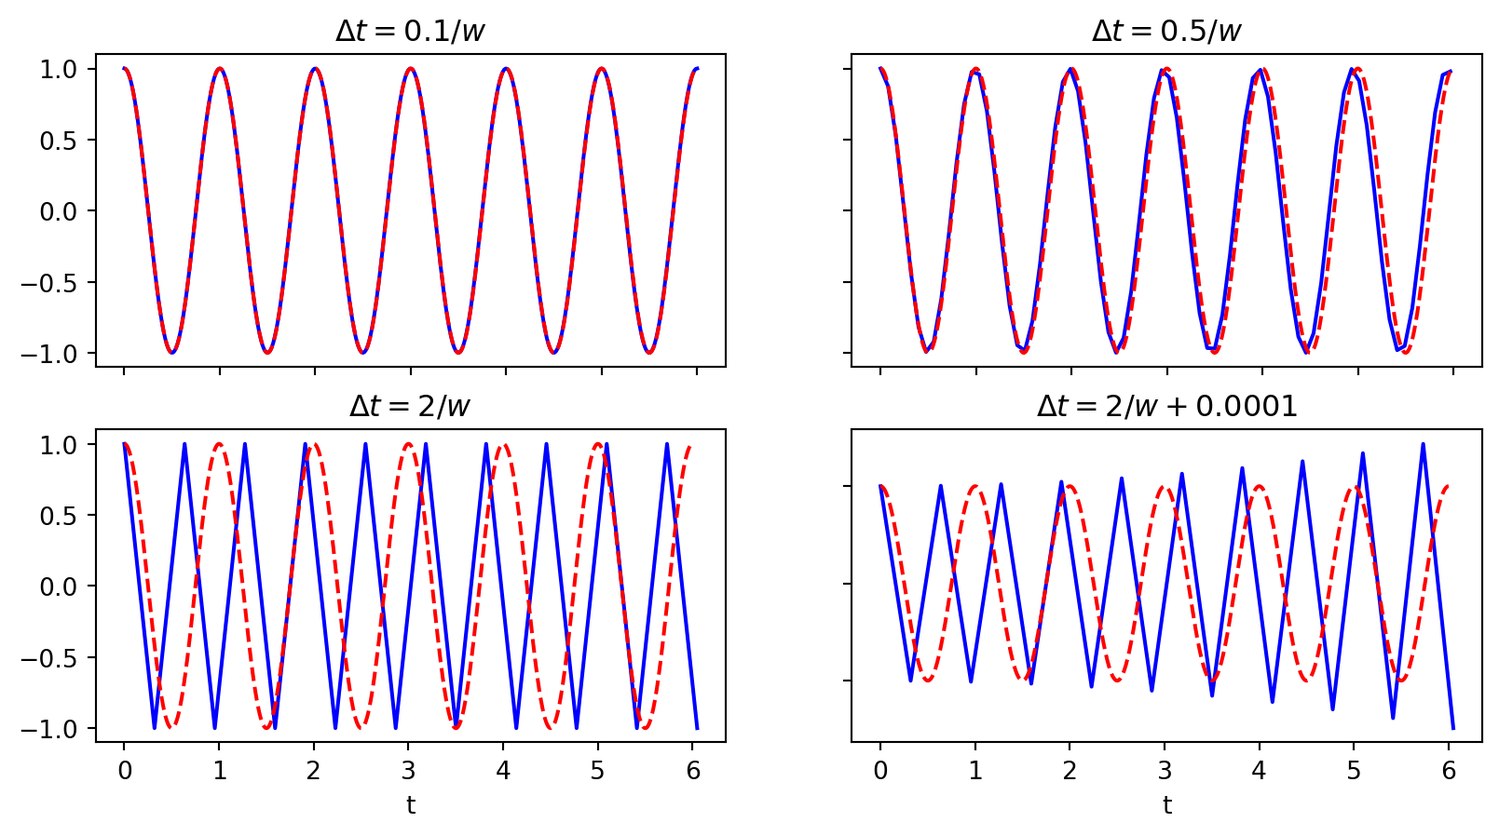
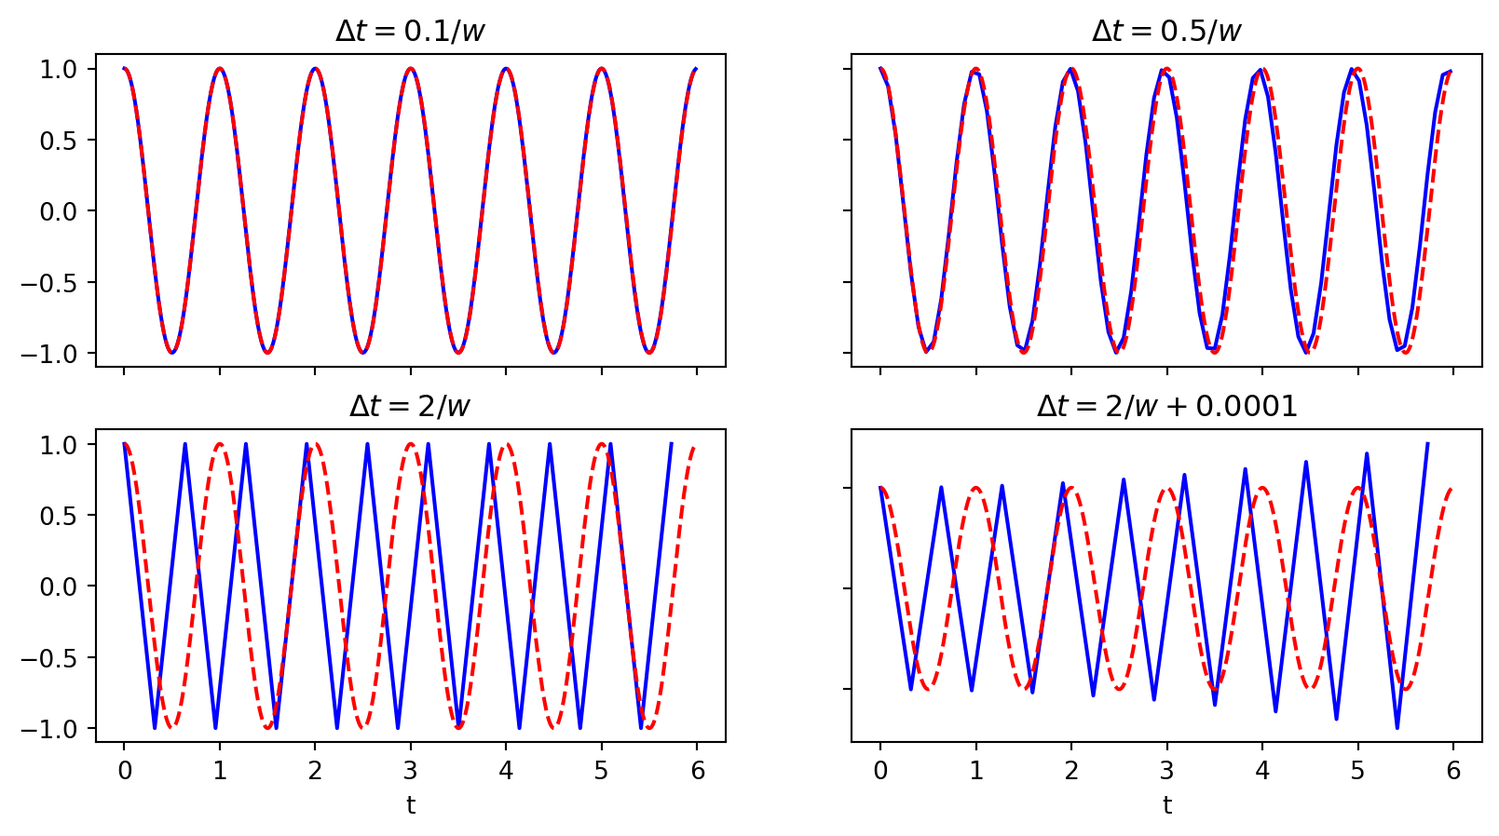
Update documentation

diff --git a/vibration.html b/vibration.html
@@ -339,7 +339,7 @@ u^1 = u^0 - \frac{1}{2} \Delta t^2 \omega^2 u^0
 </ul>
 <div class="fragment">
 <p>More precisely expressed in Python:</p>
-<div id="2c00d744" class="cell" data-execution_count="2">
+<div id="3a47ffdb" class="cell" data-execution_count="2">
 <div class="sourceCode cell-code" id="cb1"><pre class="sourceCode numberSource python number-lines code-with-copy"><code class="sourceCode python"><span id="cb1-1"><a></a>T <span class="op">=</span> <span class="dv">2</span></span>
 <span id="cb1-2"><a></a>Nt <span class="op">=</span> <span class="dv">20</span></span>
 <span id="cb1-3"><a></a>I <span class="op">=</span> <span class="dv">1</span></span>
@@ -358,7 +358,7 @@ u^1 = u^0 - \frac{1}{2} \Delta t^2 \omega^2 u^0
 </section>
 <section id="plot-of-solution" class="slide level2">
 <h2>Plot of solution</h2>
-<div id="bfeb33d1" class="cell" data-execution_count="3">
+<div id="473dc9f2" class="cell" data-execution_count="3">
 <div class="sourceCode cell-code" id="cb2"><pre class="sourceCode numberSource python number-lines code-with-copy"><code class="sourceCode python"><span id="cb2-1"><a></a><span class="im">import</span> matplotlib.pyplot <span class="im">as</span> plt</span>
 <span id="cb2-2"><a></a></span>
 <span id="cb2-3"><a></a>plt.plot(t, u, <span class="st">'*-'</span>)</span>
@@ -394,7 +394,7 @@ u^{\prime}(t_n) \approx \frac{u^{n+1}-u^{n-1}}{2\Delta t}
 </div>
 <div class="fragment">
 <p>With vectorization:</p>
-<div id="f9bf70d9" class="cell" data-execution_count="4">
+<div id="8a4bd528" class="cell" data-execution_count="4">
 <div class="sourceCode cell-code" id="cb3"><pre class="sourceCode numberSource python number-lines code-with-copy"><code class="sourceCode python"><span id="cb3-1"><a></a>du <span class="op">=</span> np.zeros(Nt<span class="op">+</span><span class="dv">1</span>)</span>
 <span id="cb3-2"><a></a>du[<span class="dv">1</span>:<span class="op">-</span><span class="dv">1</span>] <span class="op">=</span> (u[<span class="dv">2</span>:] <span class="op">-</span> u[:<span class="op">-</span><span class="dv">2</span>]) <span class="op">/</span> (<span class="dv">2</span><span class="op">*</span>dt)  <span class="co"># second order accurate</span></span>
 <span id="cb3-3"><a></a>du[<span class="dv">0</span>] <span class="op">=</span> <span class="dv">0</span>                             <span class="co"># exact from initial condition</span></span>
@@ -404,13 +404,13 @@ u^{\prime}(t_n) \approx \frac{u^{n+1}-u^{n-1}}{2\Delta t}
 </section>
 <section id="implementation" class="slide level2 smaller">
 <h2>Implementation</h2>
-<div id="e6427717" class="cell" data-execution_count="5">
+<div id="26703f8d" class="cell" data-execution_count="5">
 <div class="sourceCode cell-code" id="cb4"><pre class="sourceCode numberSource python number-lines code-with-copy"><code class="sourceCode python"><span id="cb4-1"><a></a><span class="kw">def</span> solver(I, w, dt, T):</span>
 <span id="cb4-2"><a></a>    <span class="co">"""</span></span>
 <span id="cb4-3"><a></a><span class="co">    Solve u'' + w**2*u = 0 for t in (0,T], u(0)=I and u'(0)=0,</span></span>
 <span id="cb4-4"><a></a><span class="co">    by a central finite difference method with time step dt.</span></span>
 <span id="cb4-5"><a></a><span class="co">    """</span></span>
-<span id="cb4-6"><a></a>    Nt <span class="op">=</span> <span class="bu">int</span>(<span class="bu">round</span>(T<span class="op">/</span>dt))</span>
+<span id="cb4-6"><a></a>    Nt <span class="op">=</span> <span class="bu">int</span>(T<span class="op">/</span>dt)</span>
 <span id="cb4-7"><a></a>    u <span class="op">=</span> np.zeros(Nt<span class="op">+</span><span class="dv">1</span>)</span>
 <span id="cb4-8"><a></a>    t <span class="op">=</span> np.linspace(<span class="dv">0</span>, Nt<span class="op">*</span>dt, Nt<span class="op">+</span><span class="dv">1</span>)</span>
 <span id="cb4-9"><a></a></span>
@@ -426,7 +426,7 @@ u^{\prime}(t_n) \approx \frac{u^{n+1}-u^{n-1}}{2\Delta t}
 </section>
 <section id="visualization" class="slide level2 smaller">
 <h2>Visualization</h2>
-<div id="54ff9793" class="cell" data-execution_count="6">
+<div id="ab72806b" class="cell" data-execution_count="6">
 <div class="sourceCode cell-code" id="cb5"><pre class="sourceCode numberSource python number-lines code-with-copy"><code class="sourceCode python"><span id="cb5-1"><a></a><span class="kw">def</span> visualize(u, t, I, w):</span>
 <span id="cb5-2"><a></a>    plt.plot(t, u, <span class="st">'b-o'</span>)</span>
 <span id="cb5-3"><a></a>    t_fine <span class="op">=</span> np.linspace(<span class="dv">0</span>, t[<span class="op">-</span><span class="dv">1</span>], <span class="dv">1001</span>)  <span class="co"># very fine mesh for u_e</span></span>
@@ -443,7 +443,7 @@ u^{\prime}(t_n) \approx \frac{u^{n+1}-u^{n-1}}{2\Delta t}
 </section>
 <section id="main-program" class="slide level2 smaller">
 <h2>Main program</h2>
-<div id="6582aab9" class="cell" data-execution_count="7">
+<div id="e8a98965" class="cell" data-execution_count="7">
 <div class="sourceCode cell-code" id="cb6"><pre class="sourceCode numberSource python number-lines code-with-copy"><code class="sourceCode python"><span id="cb6-1"><a></a>I <span class="op">=</span> <span class="dv">1</span></span>
 <span id="cb6-2"><a></a>w <span class="op">=</span> <span class="dv">2</span><span class="op">*</span>np.pi</span>
 <span id="cb6-3"><a></a>num_periods <span class="op">=</span> <span class="dv">6</span></span>
@@ -463,7 +463,7 @@ u^{\prime}(t_n) \approx \frac{u^{n+1}-u^{n-1}}{2\Delta t}
 </section>
 <section id="various-timestep" class="slide level2 smaller">
 <h2>Various timestep</h2>
-<div id="2d125f4c" class="cell" data-execution_count="8">
+<div id="06c10d4e" class="cell" data-execution_count="8">
 <div class="cell-output cell-output-display">
 <div>
 <figure>
@@ -488,7 +488,7 @@ u^{n+1} = A u^n  \quad \text{or} \quad u^n = A^n I
 <p>where <span class="math inline">\(I\)</span> is an initial condition.</p>
 <div class="fragment">
 <p>So the <strong>recurrence relation</strong> (the difference equation) have solutions <span class="math inline">\(u^n\)</span> that may be computed <strong>recursively</strong></p>
-<div id="d49e182c" class="cell" data-execution_count="9">
+<div id="619d8a14" class="cell" data-execution_count="9">
 <div class="sourceCode cell-code" id="cb7"><pre class="sourceCode numberSource python number-lines code-with-copy"><code class="sourceCode python"><span id="cb7-1"><a></a><span class="kw">def</span> u(n, I<span class="op">=</span><span class="fl">2.</span>, A<span class="op">=</span><span class="fl">0.5</span>):</span>
 <span id="cb7-2"><a></a>  <span class="cf">if</span> n <span class="op">&gt;</span> <span class="dv">0</span>:</span>
 <span id="cb7-3"><a></a>    <span class="cf">return</span> A <span class="op">*</span> u(n<span class="op">-</span><span class="dv">1</span>, I, A)</span>
@@ -502,7 +502,7 @@ u^{n+1} = A u^n  \quad \text{or} \quad u^n = A^n I
 </section>
 <section id="exact-discrete-solution" class="slide level2 smaller">
 <h2>Exact discrete solution</h2>
-<p>We now have (at least) two possibilities</p>
+<p>We now have (at least) two possibilities for <span class="math inline">\(u^{n+1}=A u^n\)</span></p>
 <ol type="1">
 <li>Assume that <span class="math inline">\(A=e^{i \tilde{\omega} \Delta t}\)</span> and solve for the numerical frequency <span class="math inline">\(\tilde{\omega}\)</span></li>
 <li>Assume nothing and compute with a function A(<span class="math inline">\(\Delta t, \omega\)</span>) (like for the exponential decay)</li>
@@ -527,7 +527,7 @@ u(t_n) = I \cos (\tilde{\omega} t_n)
 \frac{u^{n+1} - 2u^n + u^{n-1}}{\Delta t^2} + \omega^2 u^n = 0
 \]</span></p>
 <div class="fragment">
-<p>Quite messy, but Wolfram Alpha (or another long derivation in the FD for PDEs book) will give you</p>
+<p>Quite messy, but Wolfram Alpha (or another long derivation in the FD for PDEs book) will give you for the first FD term</p>
 <p><span class="math display">\[
 \begin{align}
 \frac{u^{n+1} - 2u^n + u^{n-1}}{\Delta t^2} &amp;= \frac{I}{\Delta t^2} (\cos (\tilde{\omega} t_{n+1}) - 2 \cos (\tilde{\omega} t_n) + \cos (\tilde{\omega} t_{n-1})) \\
@@ -569,12 +569,12 @@ u(t_n) = I \cos (\tilde{\omega} t_n)
 <p>How good is the approximation <span class="math inline">\(\tilde{\omega} = \pm \frac{2}{\Delta t} \sin^{-1} \left( \frac{\omega  \Delta t }{2} \right)\)</span> ?</p>
 <div class="fragment">
 <p>We can easily use a Taylor series expansion for small <span class="math inline">\(h=\Delta t\)</span></p>
-<div id="c89df106" class="cell" data-execution_count="10">
+<div id="58e24574" class="cell" data-execution_count="10">
 <div class="sourceCode cell-code" id="cb9"><pre class="sourceCode numberSource python number-lines code-with-copy"><code class="sourceCode python"><span id="cb9-1"><a></a><span class="im">import</span> sympy <span class="im">as</span> sp </span>
 <span id="cb9-2"><a></a>h, w <span class="op">=</span> sp.symbols(<span class="st">'h,w'</span>)</span>
 <span id="cb9-3"><a></a>w_tilde <span class="op">=</span> sp.asin(w<span class="op">*</span>h<span class="op">/</span><span class="dv">2</span>).series(h, <span class="dv">0</span>, <span class="dv">4</span>)<span class="op">*</span><span class="dv">2</span><span class="op">/</span>h</span>
 <span id="cb9-4"><a></a>sp.simplify(w_tilde)</span></code><button title="Copy to Clipboard" class="code-copy-button"><i class="bi"></i></button></pre></div>
-<div class="cell-output cell-output-display cell-output-markdown" data-execution_count="10">
+<div class="cell-output cell-output-display cell-output-markdown" data-execution_count="37">
 <p><span class="math inline">\(\displaystyle w + \frac{h^{2} w^{3}}{24} + O\left(h^{3}\right)\)</span></p>
 </div>
 </div>
@@ -658,9 +658,9 @@ e^n = -2I\sin\left(n \Delta t\frac{1}{2}\left( \omega - \tilde\omega\right)\righ
 \]</span></p>
 <div class="fragment">
 <p>The limit can be computed using L’Hopital’s rule or simply by asking <code>sympy</code> or <a href="http://www.wolframalpha.com/input/?i=%282%2Fx%29*asin%28w*x%2F2%29+as+x-%3E0">WolframAlpha</a>. Sympy is easier:</p>
-<div id="2ef063a2" class="cell" data-execution_count="11">
+<div id="252f72a1" class="cell" data-execution_count="11">
 <div class="sourceCode cell-code" id="cb10"><pre class="sourceCode numberSource python number-lines code-with-copy"><code class="sourceCode python"><span id="cb10-1"><a></a>sp.limit((<span class="dv">2</span><span class="op">/</span>h)<span class="op">*</span>sp.asin(w<span class="op">*</span>h<span class="op">/</span><span class="dv">2</span>), h, <span class="dv">0</span>, <span class="bu">dir</span><span class="op">=</span><span class="st">'+'</span>)</span></code><button title="Copy to Clipboard" class="code-copy-button"><i class="bi"></i></button></pre></div>
-<div class="cell-output cell-output-display cell-output-markdown" data-execution_count="11">
+<div class="cell-output cell-output-display cell-output-markdown" data-execution_count="38">
 <p><span class="math inline">\(\displaystyle w\)</span></p>
 </div>
 </div>
@@ -689,10 +689,10 @@ e^n = -2I\sin\left(n \Delta t\frac{1}{2}\left( \omega - \tilde\omega\right)\righ
 <div class="column">
 <p>No! For <span class="math inline">\(\Im(y) &lt; 0\)</span> we have that <span class="math inline">\(|e^{iy}| &gt; 1\)</span>.</p>
 </div><div class="column">
-<div id="25aee783" class="cell" data-execution_count="12">
+<div id="6e69b708" class="cell" data-execution_count="12">
 <div class="sourceCode cell-code" id="cb11"><pre class="sourceCode numberSource python number-lines code-with-copy"><code class="sourceCode python"><span id="cb11-1"><a></a>y <span class="op">=</span> <span class="op">-</span><span class="ot">0.001j</span></span>
 <span id="cb11-2"><a></a><span class="bu">abs</span>(sp.exp(<span class="ot">1j</span><span class="op">*</span>y)) </span></code><button title="Copy to Clipboard" class="code-copy-button"><i class="bi"></i></button></pre></div>
-<div class="cell-output cell-output-display cell-output-markdown" data-execution_count="12">
+<div class="cell-output cell-output-display cell-output-markdown" data-execution_count="39">
 <p><span class="math inline">\(\displaystyle 1.00100050016671\)</span></p>
 </div>
 </div>
@@ -703,9 +703,9 @@ e^n = -2I\sin\left(n \Delta t\frac{1}{2}\left( \omega - \tilde\omega\right)\righ
 </div>
 <div class="fragment">
 <p>Yes! We can easily check that if <span class="math inline">\(|x|&gt;1\)</span> then <span class="math inline">\(\sin^{-1}(x)\)</span> has a negative imaginary part:</p>
-<div id="ec7be227" class="cell" data-execution_count="13">
+<div id="b9372a3e" class="cell" data-execution_count="13">
 <div class="sourceCode cell-code" id="cb12"><pre class="sourceCode numberSource python number-lines code-with-copy"><code class="sourceCode python"><span id="cb12-1"><a></a>sp.asin(<span class="fl">1.01</span>)</span></code><button title="Copy to Clipboard" class="code-copy-button"><i class="bi"></i></button></pre></div>
-<div class="cell-output cell-output-display cell-output-markdown" data-execution_count="13">
+<div class="cell-output cell-output-display cell-output-markdown" data-execution_count="40">
 <p><span class="math inline">\(\displaystyle 1.5707963267949 - 0.141303769485649 i\)</span></p>
 </div>
 </div>
@@ -731,7 +731,7 @@ e^n = -2I\sin\left(n \Delta t\frac{1}{2}\left( \omega - \tilde\omega\right)\righ
 </section>
 <section id="remember-the-initial-plots" class="slide level2 smaller">
 <h2>Remember the initial plots</h2>
-<div id="85ba37d5" class="cell" data-execution_count="14">
+<div id="8203bc3b" class="cell" data-execution_count="14">
 <div class="cell-output cell-output-display">
 <div>
 <figure>
@@ -744,7 +744,7 @@ e^n = -2I\sin\left(n \Delta t\frac{1}{2}\left( \omega - \tilde\omega\right)\righ
 </section>
 <section id="about-the-stability-limit" class="slide level2 smaller">
 <h2>About the stability limit</h2>
-<div id="c18d4672" class="cell" data-execution_count="15">
+<div id="abc0b721" class="cell" data-execution_count="15">
 <div class="cell-output cell-output-display">
 <div>
 <figure>
@@ -790,11 +790,11 @@ A = 1 - \frac{p^2}{2} \pm \frac{p}{2}\sqrt{p^2-4}
 A &lt; -1
 \]</span></p>
 <p>Check:</p>
-<div id="6ac3ea2e" class="cell" data-execution_count="16">
+<div id="0e98edba" class="cell" data-execution_count="16">
 <div class="sourceCode cell-code" id="cb13"><pre class="sourceCode numberSource python number-lines code-with-copy"><code class="sourceCode python"><span id="cb13-1"><a></a>p <span class="op">=</span> sp.Symbol(<span class="st">'p'</span>) </span>
 <span id="cb13-2"><a></a>f <span class="op">=</span> <span class="dv">1</span> <span class="op">-</span> p<span class="op">**</span><span class="dv">2</span><span class="op">/</span><span class="dv">2</span> <span class="op">-</span> p<span class="op">/</span><span class="dv">2</span><span class="op">*</span>sp.sqrt(p<span class="op">**</span><span class="dv">2</span><span class="op">-</span><span class="dv">4</span>)</span>
 <span id="cb13-3"><a></a>f.subs(p, <span class="fl">2.01</span>).n() </span></code><button title="Copy to Clipboard" class="code-copy-button"><i class="bi"></i></button></pre></div>
-<div class="cell-output cell-output-display cell-output-markdown" data-execution_count="16">
+<div class="cell-output cell-output-display cell-output-markdown" data-execution_count="43">
 <p><span class="math inline">\(\displaystyle -1.22130109316473\)</span></p>
 </div>
 </div>
@@ -860,7 +860,7 @@ A &lt; -1
 <section id="convergence-rates" class="slide level2 smaller">
 <h2>Convergence rates</h2>
 <p>Lets compute the convergence rate for our solver. However, let it also be possible to choose the numerical frequency <span class="math inline">\(\omega(1-\omega^2\Delta t^2/24)\)</span></p>
-<div id="5bc55708" class="cell" data-execution_count="17">
+<div id="f54e2048" class="cell" data-execution_count="17">
 <div class="sourceCode cell-code" id="cb14"><pre class="sourceCode numberSource python number-lines code-with-copy"><code class="sourceCode python"><span id="cb14-1"><a></a><span class="kw">def</span> solver_adjust(I, w, dt, T, adjust_w<span class="op">=</span><span class="va">False</span>):</span>
 <span id="cb14-2"><a></a>    Nt <span class="op">=</span> <span class="bu">int</span>(<span class="bu">round</span>(T<span class="op">/</span>dt))</span>
 <span id="cb14-3"><a></a>    u <span class="op">=</span> np.zeros(Nt<span class="op">+</span><span class="dv">1</span>)</span>
@@ -887,7 +887,7 @@ A &lt; -1
 <p><span class="math display">\[
 r = \frac{\log {\frac{E_{i-1}}{E_i}}}{\log {\frac{\Delta t_{i-1}}{\Delta t_i}}}
 \]</span></p>
-<div id="42b0cd42" class="cell" data-execution_count="18">
+<div id="94dd0b80" class="cell" data-execution_count="18">
 <div class="sourceCode cell-code" id="cb15"><pre class="sourceCode numberSource python number-lines code-with-copy"><code class="sourceCode python"><span id="cb15-1"><a></a><span class="kw">def</span> convergence_rates(m, num_periods<span class="op">=</span><span class="dv">8</span>, w<span class="op">=</span><span class="fl">0.35</span>, I<span class="op">=</span><span class="fl">0.3</span>, adjust_w<span class="op">=</span><span class="va">False</span>):</span>
 <span id="cb15-2"><a></a>    P <span class="op">=</span> <span class="dv">2</span><span class="op">*</span>np.pi<span class="op">/</span>w</span>
 <span id="cb15-3"><a></a>    dt <span class="op">=</span> <span class="dv">1</span> <span class="op">/</span> w    <span class="co"># Half stability limit</span></span>
@@ -908,9 +908,9 @@ r = \frac{\log {\frac{E_{i-1}}{E_i}}}{\log {\frac{\Delta t_{i-1}}{\Delta t_i}}}
 <section id="try-it" class="slide level2 smaller">
 <h2>Try it!</h2>
 <p>Print the computed convergence rates</p>
-<div id="d0c5eb35" class="cell" data-execution_count="19">
+<div id="051b82fe" class="cell" data-execution_count="19">
 <div class="sourceCode cell-code" id="cb16"><pre class="sourceCode numberSource python number-lines code-with-copy"><code class="sourceCode python"><span id="cb16-1"><a></a>convergence_rates(<span class="dv">5</span>, w<span class="op">=</span><span class="fl">0.5</span>, I<span class="op">=</span><span class="dv">1</span>)[<span class="dv">0</span>]</span></code><button title="Copy to Clipboard" class="code-copy-button"><i class="bi"></i></button></pre></div>
-<div class="cell-output cell-output-display" data-execution_count="19">
+<div class="cell-output cell-output-display" data-execution_count="46">
 <pre><code>[np.float64(1.9487030166752326),
  np.float64(2.022988970233581),
  np.float64(2.0050238810553545),
@@ -918,9 +918,9 @@ r = \frac{\log {\frac{E_{i-1}}{E_i}}}{\log {\frac{\Delta t_{i-1}}{\Delta t_i}}}
 </div>
 </div>
 <p>Adjusted solver:</p>
-<div id="3e0b2afd" class="cell" data-execution_count="20">
+<div id="37269e38" class="cell" data-execution_count="20">
 <div class="sourceCode cell-code" id="cb18"><pre class="sourceCode numberSource python number-lines code-with-copy"><code class="sourceCode python"><span id="cb18-1"><a></a>convergence_rates(<span class="dv">5</span>, w<span class="op">=</span><span class="fl">0.5</span>, I<span class="op">=</span><span class="dv">1</span>, adjust_w<span class="op">=</span><span class="va">True</span>)[<span class="dv">0</span>]</span></code><button title="Copy to Clipboard" class="code-copy-button"><i class="bi"></i></button></pre></div>
-<div class="cell-output cell-output-display" data-execution_count="20">
+<div class="cell-output cell-output-display" data-execution_count="47">
 <pre><code>[np.float64(4.133074797577663),
  np.float64(4.035054365992913),
  np.float64(4.008071155725109),
@@ -930,7 +930,7 @@ r = \frac{\log {\frac{E_{i-1}}{E_i}}}{\log {\frac{\Delta t_{i-1}}{\Delta t_i}}}
 </section>
 <section id="plot-convergence-regular-solver" class="slide level2 smaller">
 <h2>plot convergence regular solver</h2>
-<div id="a379a08d" class="cell" data-execution_count="21">
+<div id="2fc53026" class="cell" data-execution_count="21">
 <div class="sourceCode cell-code" id="cb20"><pre class="sourceCode numberSource python number-lines code-with-copy"><code class="sourceCode python"><span id="cb20-1"><a></a><span class="im">from</span> plotslopes <span class="im">import</span> slope_marker</span>
 <span id="cb20-2"><a></a>r, E, dt <span class="op">=</span> convergence_rates(<span class="dv">5</span>)</span>
 <span id="cb20-3"><a></a>plt.loglog(dt, E, dt, <span class="dv">10</span><span class="op">*</span>np.array(dt), dt, np.array(dt)<span class="op">**</span><span class="dv">2</span>)</span>
@@ -950,7 +950,7 @@ r = \frac{\log {\frac{E_{i-1}}{E_i}}}{\log {\frac{\Delta t_{i-1}}{\Delta t_i}}}
 </section>
 <section id="plot-convergence-adjusted-solver" class="slide level2 smaller">
 <h2>plot convergence adjusted solver</h2>
-<div id="0ec47f9d" class="cell" data-execution_count="22">
+<div id="c2393a97" class="cell" data-execution_count="22">
 <div class="sourceCode cell-code" id="cb21"><pre class="sourceCode numberSource python number-lines code-with-copy"><code class="sourceCode python"><span id="cb21-1"><a></a><span class="im">from</span> plotslopes <span class="im">import</span> slope_marker</span>
 <span id="cb21-2"><a></a>r, E, dt <span class="op">=</span> convergence_rates(<span class="dv">5</span>, adjust_w<span class="op">=</span><span class="va">True</span>)</span>
 <span id="cb21-3"><a></a>plt.loglog(dt, E, dt, np.array(dt)<span class="op">**</span><span class="dv">4</span>)</span>
@@ -970,7 +970,7 @@ r = \frac{\log {\frac{E_{i-1}}{E_i}}}{\log {\frac{\Delta t_{i-1}}{\Delta t_i}}}
 <section id="add-tests" class="slide level2 smaller">
 <h2>Add tests</h2>
 <p>The exact solution will not equal the numerical, but the order of the error is something we can test for.</p>
-<div id="84acc676" class="cell" data-execution_count="23">
+<div id="57e1dd21" class="cell" data-execution_count="23">
 <div class="sourceCode cell-code" id="cb22"><pre class="sourceCode numberSource python number-lines code-with-copy"><code class="sourceCode python"><span id="cb22-1"><a></a><span class="kw">def</span> test_order(m, w<span class="op">=</span><span class="dv">1</span>, I<span class="op">=</span><span class="dv">1</span>, adjust_w<span class="op">=</span><span class="va">False</span>):</span>
 <span id="cb22-2"><a></a>    r, E, dt <span class="op">=</span> convergence_rates(m, w<span class="op">=</span>w, I<span class="op">=</span>I, adjust_w<span class="op">=</span>adjust_w)</span>
 <span id="cb22-3"><a></a>    true_order <span class="op">=</span> <span class="dv">4</span> <span class="cf">if</span> adjust_w <span class="cf">else</span> <span class="dv">2</span></span>
@@ -983,7 +983,7 @@ r = \frac{\log {\frac{E_{i-1}}{E_i}}}{\log {\frac{\Delta t_{i-1}}{\Delta t_i}}}
 </div>
 <div class="fragment">
 <p>Run test for <span class="math inline">\(m=4\)</span> levels, <span class="math inline">\(w=0.5, I=1\)</span> and <code>adjust_w=False</code></p>
-<div id="a3e575e9" class="cell" data-execution_count="24">
+<div id="67bc00e5" class="cell" data-execution_count="24">
 <div class="sourceCode cell-code" id="cb23"><pre class="sourceCode numberSource python number-lines code-with-copy"><code class="sourceCode python"><span id="cb23-1"><a></a>test_order(<span class="dv">4</span>, w<span class="op">=</span><span class="fl">0.5</span>, I<span class="op">=</span><span class="dv">1</span>, adjust_w<span class="op">=</span><span class="va">False</span>)</span></code><button title="Copy to Clipboard" class="code-copy-button"><i class="bi"></i></button></pre></div>
 <div class="cell-output cell-output-stdout">
 <pre><code>Test failed!! orders = [np.float64(1.9487030166752326), np.float64(2.022988970233581), np.float64(2.0050238810553545)]</code></pre>
@@ -992,13 +992,13 @@ r = \frac{\log {\frac{E_{i-1}}{E_i}}}{\log {\frac{\Delta t_{i-1}}{\Delta t_i}}}
 </div>
 <div class="fragment">
 <p>Test fails. Try one more level</p>
-<div id="c054e621" class="cell" data-execution_count="25">
+<div id="1e565fb5" class="cell" data-execution_count="25">
 <div class="sourceCode cell-code" id="cb25"><pre class="sourceCode numberSource python number-lines code-with-copy"><code class="sourceCode python"><span id="cb25-1"><a></a>test_order(<span class="dv">5</span>, w<span class="op">=</span><span class="fl">0.5</span>, I<span class="op">=</span><span class="dv">1</span>, adjust_w<span class="op">=</span><span class="va">False</span>)</span></code><button title="Copy to Clipboard" class="code-copy-button"><i class="bi"></i></button></pre></div>
 <div class="cell-output cell-output-stdout">
 <pre><code>Test passed!!</code></pre>
 </div>
 </div>
-<div id="f517088c" class="cell" data-execution_count="26">
+<div id="bf8db69b" class="cell" data-execution_count="26">
 <div class="sourceCode cell-code" id="cb27"><pre class="sourceCode numberSource python number-lines code-with-copy"><code class="sourceCode python"><span id="cb27-1"><a></a>test_order(<span class="dv">5</span>, w<span class="op">=</span><span class="fl">0.5</span>, I<span class="op">=</span><span class="dv">1</span>, adjust_w<span class="op">=</span><span class="va">True</span>)</span></code><button title="Copy to Clipboard" class="code-copy-button"><i class="bi"></i></button></pre></div>
 <div class="cell-output cell-output-stdout">
 <pre><code>Test passed!!</code></pre>
@@ -1009,7 +1009,7 @@ r = \frac{\log {\frac{E_{i-1}}{E_i}}}{\log {\frac{\Delta t_{i-1}}{\Delta t_i}}}
 <section id="final-test" class="slide level2 smaller">
 <h2>Final test</h2>
 <p>Use simply an assert clause and do not catch the error.</p>
-<div id="cdc8d008" class="cell" data-execution_count="27">
+<div id="4307fb4b" class="cell" data-execution_count="27">
 <div class="sourceCode cell-code" id="cb29"><pre class="sourceCode numberSource python number-lines code-with-copy"><code class="sourceCode python"><span id="cb29-1"><a></a><span class="kw">def</span> test_order(m, w<span class="op">=</span><span class="dv">1</span>, I<span class="op">=</span><span class="dv">1</span>, adjust_w<span class="op">=</span><span class="va">False</span>):</span>
 <span id="cb29-2"><a></a>    r, E, dt <span class="op">=</span> convergence_rates(m, w<span class="op">=</span>w, I<span class="op">=</span>I, adjust_w<span class="op">=</span>adjust_w)</span>
 <span id="cb29-3"><a></a>    true_order <span class="op">=</span> <span class="dv">4</span> <span class="cf">if</span> adjust_w <span class="cf">else</span> <span class="dv">2</span></span>
